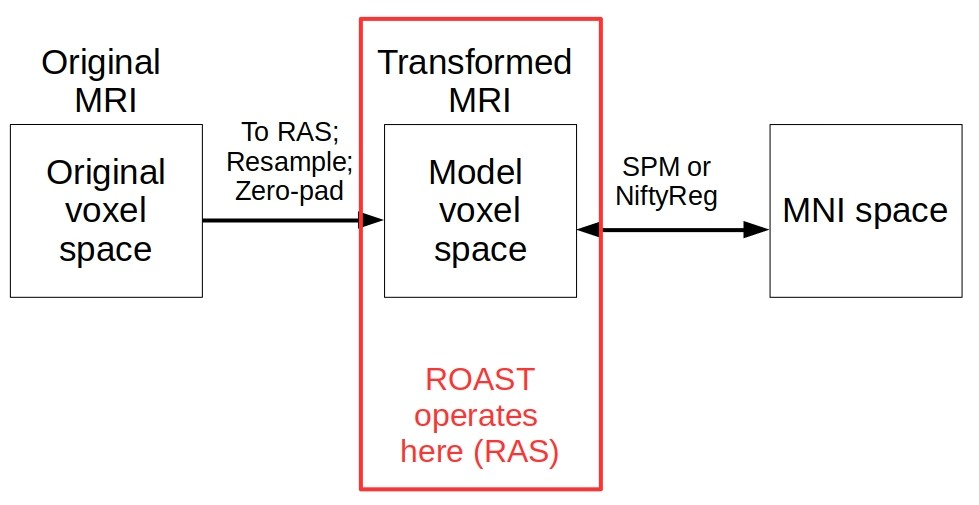
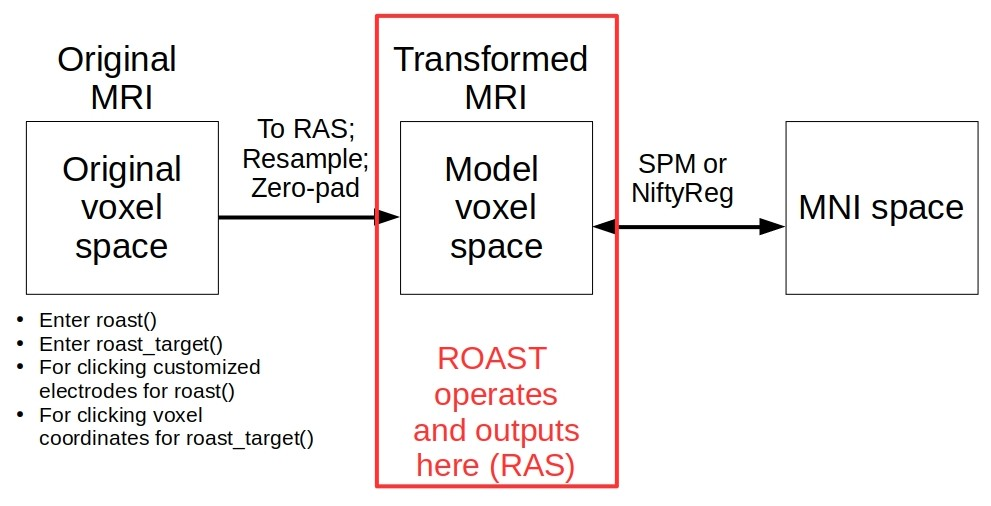
adding 3spaces illustration

diff --git a/README.md b/README.md
@@ -465,7 +465,7 @@ This will generate the lead field for subject1. Also since the MRI resolution is
 
 `roast_target(subj,simTag,targetCoord,varargin)`
 
-`subj`: file name of the MRI of the subject that you want to run targeting. This follows the [same syntax](#21-synopsis-of-roast) as the `roast()` function. Make sure that you use the original MRI that you used to run `roast()` for generating the lead field, even if the original MRI is not in RAS orientation, or you turned on the `'resampling'` or did `'zeroPadding'` option when running `roast()` (see [Example 30](#example-30)), as `roast_target()`  will take care of all the transforms of MRI data (re-orientation into RAS, resampling or zero-padding).
+`subj`: file name of the MRI of the subject that you want to run targeting. This follows the [same syntax](#21-synopsis-of-roast) as the `roast()` function. Make sure that you use the original MRI that you used to run `roast()` for generating the lead field, even if the original MRI is not in RAS orientation, or you turned on the `'resampling'` or did `'zeroPadding'` option when running `roast()` (see [Example 30](#example-30)), as `roast_target()`  will take care of all the transforms of MRI data (re-orientation into RAS, resampling or zero-padding). See [this figure](./3spaces.jpg) for details.
 
 `simTag`: the `simulationTag` that you used in `roast()` when generating the lead field. For example, if you generated the lead field for the MNI152 head following [Example 25](#example-25), you will use the tag you entered in that example (`'MNI152leadField'`) for this `simTag` in `roast_target()`. See [Example 28](#example-28). Similarly, if you run [Example 26](#example-26) first, you can run [Example 29](#example-29) for targeting on the New York head.
 
@@ -475,7 +475,7 @@ This will generate the lead field for subject1. Also since the MRI resolution is
 
 `'coordType'` -- the coordinate space where the target coordinates reside.  
 `'MNI'` (default) | `'voxel'`  
-You can tell `roast_target()` the target locations in either the MNI coordinates or the voxel coordinates. If you use the voxel coordinates, you can use a free program called [MRIcro](http://www.mccauslandcenter.sc.edu/crnl/mricro) to load the MRI (note do NOT use MRIcron for this as MRIcron will not give you the true voxel coordinates) and click the locations in the brain where you want to target. MRIcro will return the voxel coordinates of the locations you click. Make sure that you use the original MRI that you used to run `roast()` to click for the voxel coordinates, even if the original MRI is not in RAS orientation, or you turned on the `'resampling'` or did `'zeroPadding'` option when running `roast()` to generate the lead field (see [Example 30](#example-30)), as `roast_target()`  will take care of all the transforms of MRI data (re-orientation into RAS, resampling or zero-padding).
+You can tell `roast_target()` the target locations in either the MNI coordinates or the voxel coordinates. If you use the voxel coordinates, you can use a free program called [MRIcro](http://www.mccauslandcenter.sc.edu/crnl/mricro) to load the MRI (note do NOT use MRIcron for this as MRIcron will not give you the true voxel coordinates) and click the locations in the brain where you want to target. MRIcro will return the voxel coordinates of the locations you click. Make sure that you use the original MRI that you used to run `roast()` to click for the voxel coordinates, even if the original MRI is not in RAS orientation, or you turned on the `'resampling'` or did `'zeroPadding'` option when running `roast()` to generate the lead field (see [Example 30](#example-30)), as `roast_target()`  will take care of all the transforms of MRI data (re-orientation into RAS, resampling or zero-padding). See [this figure](./3spaces.jpg) for details.
 
 `'optType'` -- the specific algorithm used to perform the targeted TES.  
 `'unconstrained-wls'` | `'wls-l1'` | `'wls-l1per'` | `'unconstrained-lcmv'` | `'lcmv-l1'` | `'lcmv-l1per'` | `'max-l1'` (default) | `'max-l1per'`  
@@ -614,7 +614,7 @@ Note in these text files, voltage and electric field are defined at each mesh no
 
 ### 5.2 Outputs of `roast_target`
 
-`roast_target()` records all the targeting history in a text file named as `"subjName_targetLog"`, where you can find for each targeting (identified by its unique `'targetingTag'`) the detailed values of all the options. You will notice the target coordinates ('targetCoord') are recorded in the log file in three formats: MNI, original MRI voxel space, and model voxel space. If you provided the MNI coordinates for the targets, then the original MRI voxel coordinates will be shown as "not provided"; if you provided the voxel coordinates for the targets using the original MRI, then the MNI coordinates will be shown as "not provided". The model voxel coordinates are those coordinates that enter the targeting algorithm, after possible transforms applied on the original MRI (re-orienting into RAS, resampling, or zero-padding). Note also that the targeting results are summarized in this log file as well: the optimal montage used, the achieved electric field magnitude, intensity and focality at each target are all recorded (if you see an electric field of NaN, it means the target is outside of the brain, or the target radius is too small).
+`roast_target()` records all the targeting history in a text file named as `"subjName_targetLog"`, where you can find for each targeting (identified by its unique `'targetingTag'`) the detailed values of all the options. You will notice the target coordinates ('targetCoord') are recorded in the log file in three formats: MNI, original MRI voxel space, and model voxel space. If you provided the MNI coordinates for the targets, then the original MRI voxel coordinates will be shown as "not provided"; if you provided the voxel coordinates for the targets using the original MRI, then the MNI coordinates will be shown as "not provided". The model voxel coordinates are those coordinates that enter the targeting algorithm, after possible transforms applied on the original MRI (re-orienting into RAS, resampling, or zero-padding). See [this figure](./3spaces.jpg) for details. Note also that the targeting results are summarized in this log file as well: the optimal montage used, the achieved electric field magnitude, intensity and focality at each target are all recorded (if you see an electric field of NaN, it means the target is outside of the brain, or the target radius is too small).
 
 The results are also output in the following formats.
 
@@ -725,7 +725,7 @@ ROAST was supported by the NIH through grants R01MH111896, R01MH111439, R01NS095
 
 ROAST is NOT backwards compatible in the generated simulation data.
 
-Starting from Version 3.0, ROAST enforces the [RAS rule](http://www.grahamwideman.com/gw/brain/orientation/orientterms.htm) for the input MRI. So if the input MRI is not in RAS orientation, ROAST will re-orient it into RAS (you'll notice this if you just run ROAST on the default subject: the [MNI152 averaged head](http://nist.mni.mcgill.ca/?p=858), see [Example 1](#example-1), as it's in LAS orientation). This is part of our efforts to make ROAST compatible with [Soterix software HD-Explore and HD-Targets](https://soterixmedical.com/research/software). In the upcoming release of these two software it is possible to load the results output from ROAST. Related to this, there are three spaces involved in ROAST (see below figure). ROAST operates and outputs in the center box (model voxel space).
+Starting from Version 3.0, ROAST enforces the [RAS rule](http://www.grahamwideman.com/gw/brain/orientation/orientterms.htm) for the input MRI. So if the input MRI is not in RAS orientation, ROAST will re-orient it into RAS (you'll notice this if you just run ROAST on the default subject: the [MNI152 averaged head](http://nist.mni.mcgill.ca/?p=858), see [Example 1](#example-1), as it's in LAS orientation). This is part of our efforts to make ROAST compatible with [Soterix software HD-Explore and HD-Targets](https://soterixmedical.com/research/software). HD-Explore (v6 and later) and HD-Targets (v5 and later) can load the results output from ROAST. Related to this, there are three spaces involved in ROAST (see below figure). ROAST operates and outputs in the center box (model voxel space).
 
 ![Three spaces involved in ROAST](./3spaces.jpg)
 
